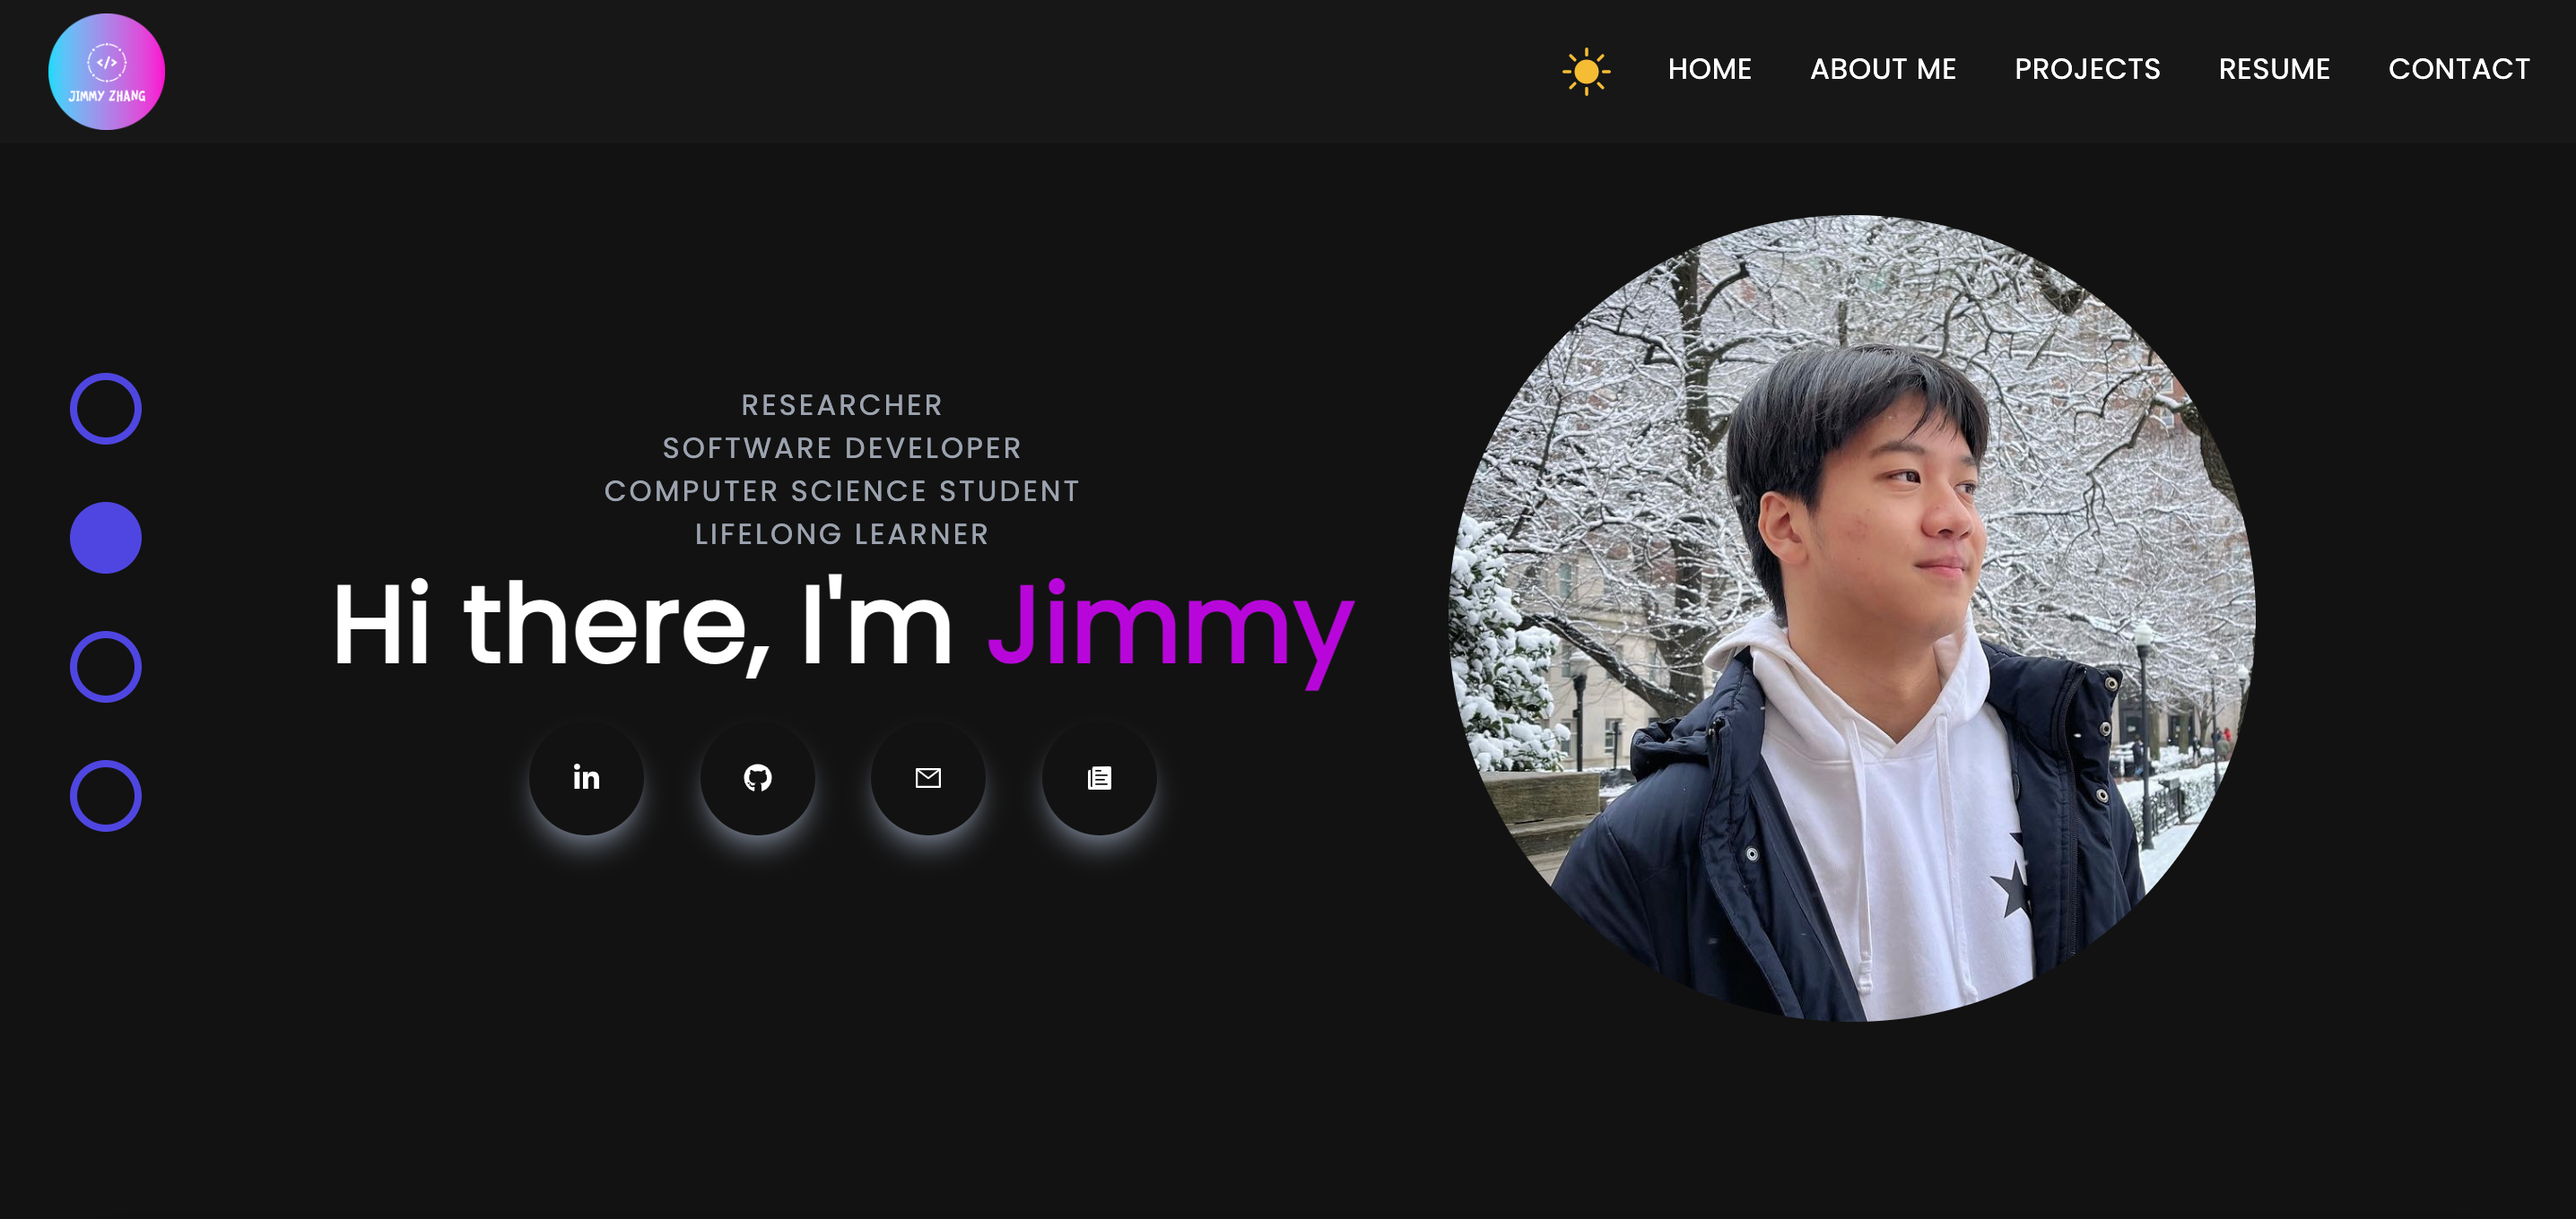
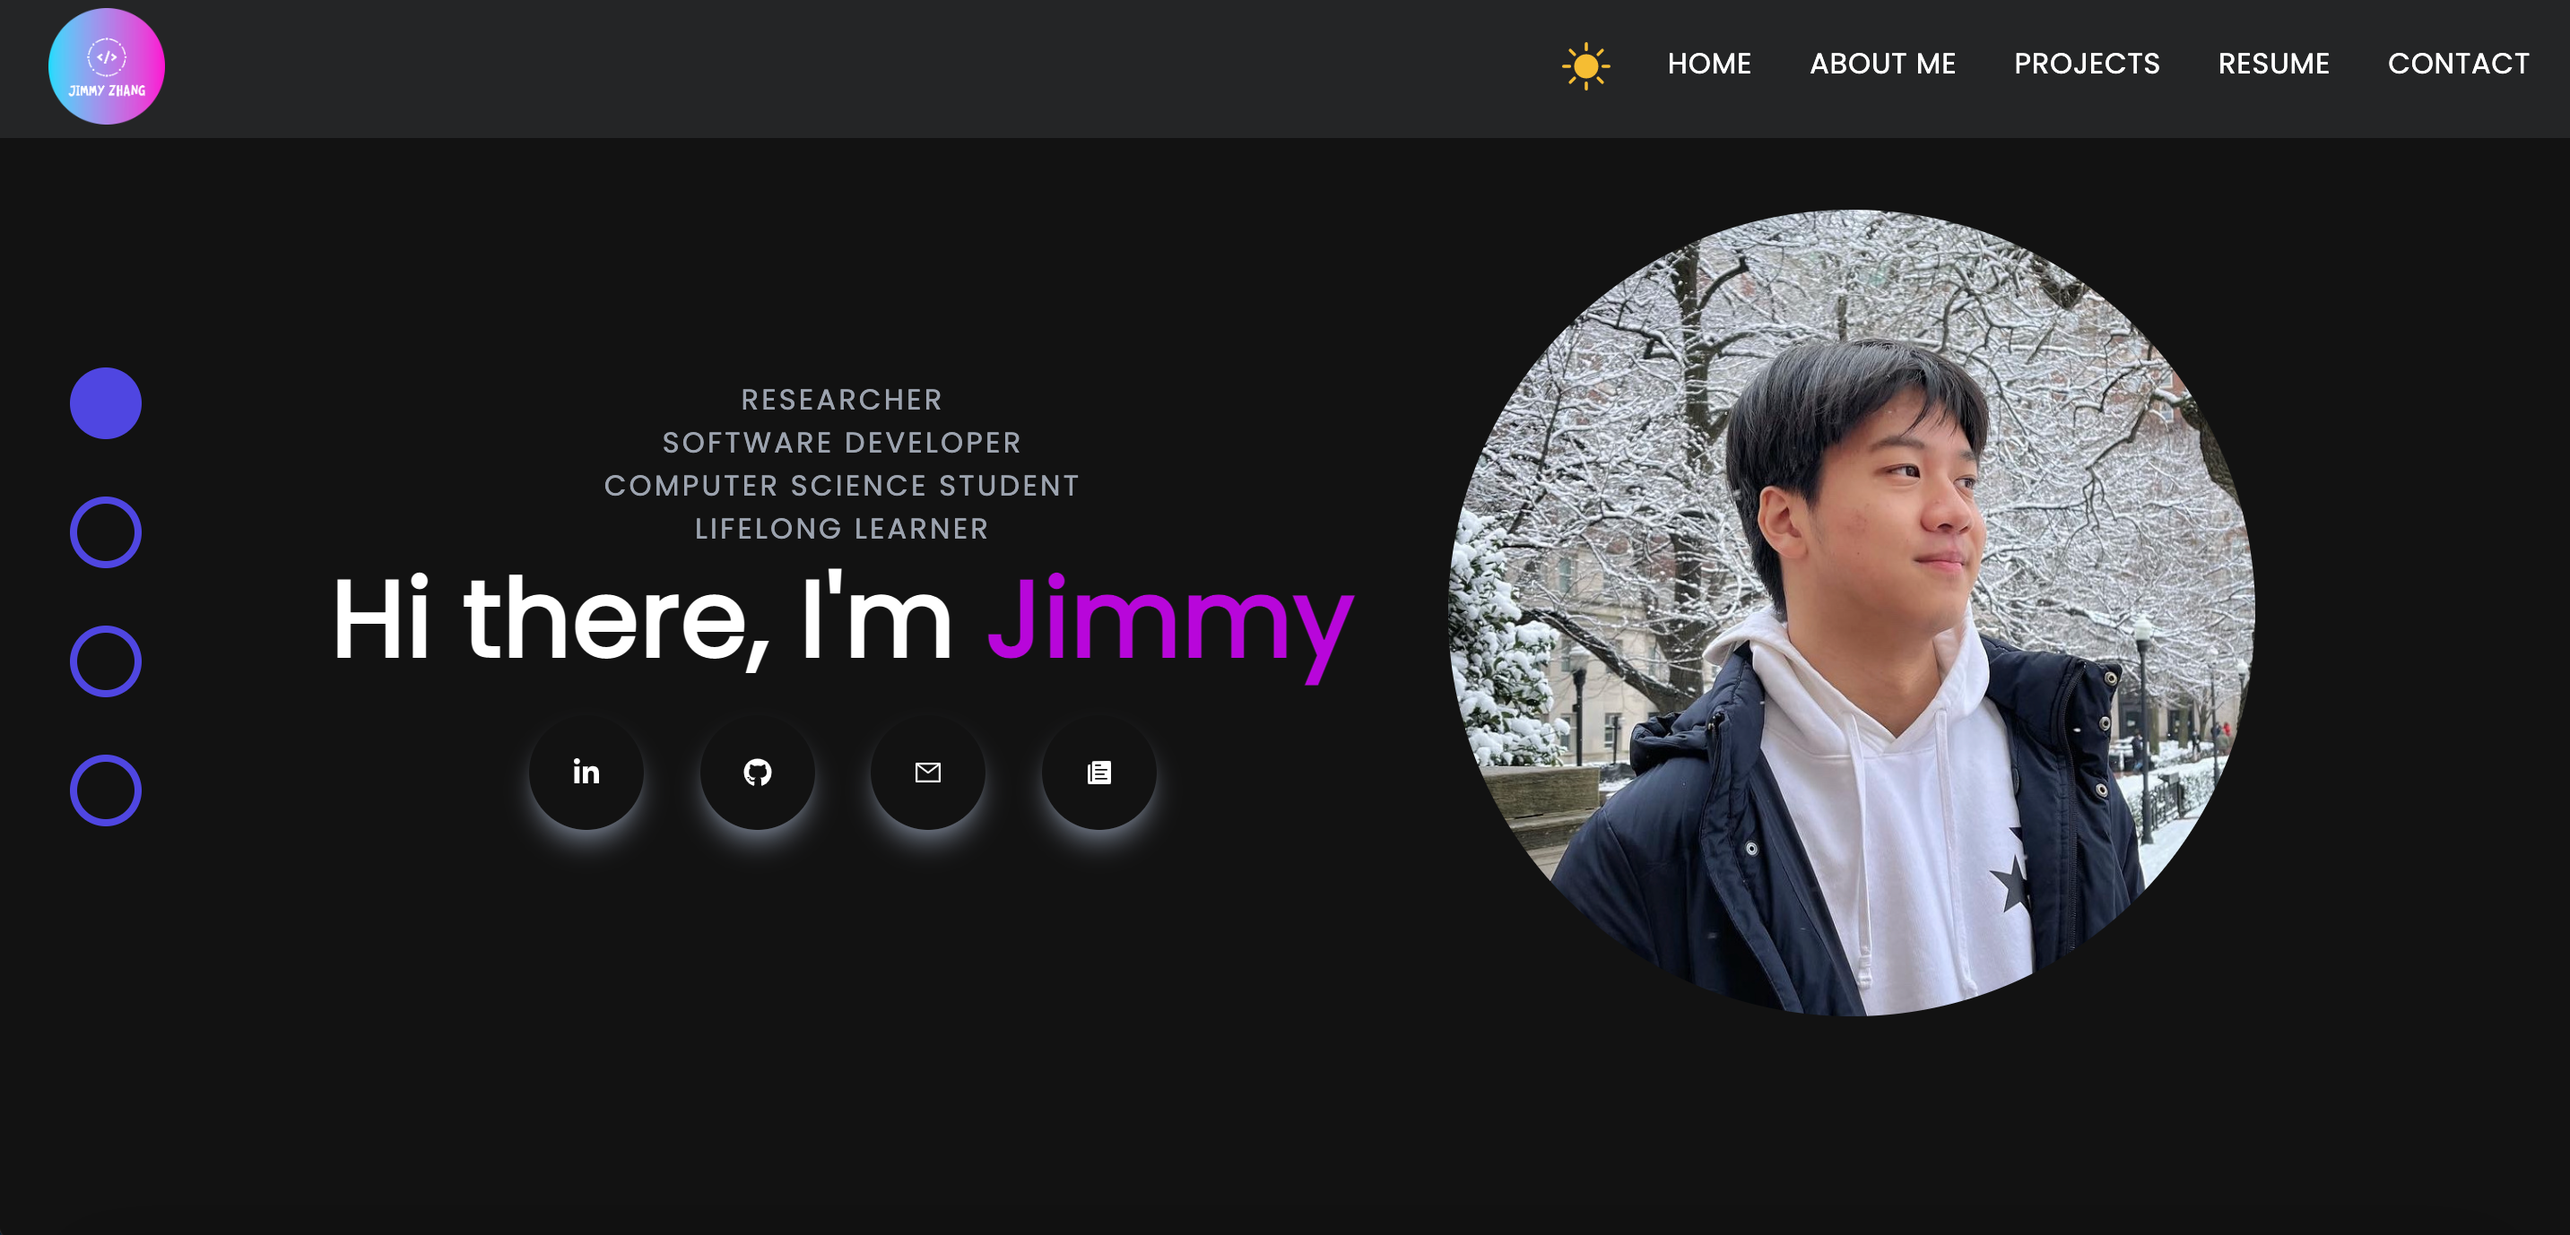
Added project overview for despamifier project and added pictures for new projects

diff --git a/pages/projects/dementia_mortality_prediction.jsx b/pages/projects/dementia_mortality_prediction.jsx
@@ -1,10 +1,10 @@
 import React from "react";
 import Image from "next/image";
 import Link from "next/link";
-import covidImg from "../../public/assets/covid_project.webp";
+import naccImg from "../../public/assets/nacc_project.png";
 import { GiShirtButton } from "react-icons/gi";
 
-const covid_diagnosis_prediction = () => {
+const dementia_mortality_prediction = () => {
 	return (
 		<div className="w-full">
 			<div className="w-screen top-[80px] h-[40vh] relative">
@@ -13,57 +13,34 @@ const covid_diagnosis_prediction = () => {
 					className="absolute z-1"
 					layout="fill"
 					objectFit="cover"
-					src={covidImg}
-					alt="Decision tree"
+					src={naccImg}
+					alt="Clustermap and SHAP beeswarm plots"
 				/>
 
 				<div className="absolute top-[55%] max-w-[1240px] w-full left-[50%] translate-x-[-50%] translate-y-[-50%] z-10 p-2 text-white">
 					<h2 className="py-2">
-						Prediction of Individual COVID-19 Diagnosis using Baseline
-						Demographics and Lab Data
+						Predictive Models and Features of Patient Mortality across Dementia
+						Types
 					</h2>
-					<h3>Research (Machine Learning)</h3>
+					<h3>Research (ML)</h3>
 				</div>
 			</div>
 
 			<div className="max-w-[1240px] mx-auto p-2 grid md:grid-cols-10 gap-8 pt-28">
 				<div className="col-span-10 md:col-span-7">
-					<h2>Abstract</h2>
+					<h2>Project Overview</h2>
 					<p className="mt-4">
-						The global surge in COVID-19 cases underscores the need for fast,
-						scalable, and reliable testing. Current COVID-19 diagnostic tests
-						are limited by turnaround time, limited availability, or occasional
-						false findings. Here, we developed a machine learning-based
-						framework for predicting individual COVID-19 positive diagnosis
-						relying only on readily-available baseline data, including patient
-						demographics, comorbidities, and common lab values. Leveraging a
-						cohort of 31,739 adults within an academic health system, we trained
-						and tested multiple types of machine learning models, achieving an
-						area under the curve of 0.75. Feature importance analyses
-						highlighted serum calcium levels, temperature, age, lymphocyte
-						count, smoking, hemoglobin levels, aspartate aminotransferase
-						levels, and oxygen saturation as key predictors. Additionally, we
-						developed a single decision tree model that provided an operable
-						method for stratifying sub-populations. Overall, this study provides
-						a proof-of-concept that COVID-19 diagnosis prediction models can be
-						developed using only baseline data. The resulting prediction can
-						complement existing tests to enhance screening and pandemic
-						containment workflows.
+						Lorem ipsum dolor sit, amet consectetur adipisicing elit. Nemo quam,
+						deserunt nostrum vitae nesciunt ipsum dolorem blanditiis debitis
+						libero rerum voluptas quidem praesentium voluptatibus tempora,
+						veniam ea! Maiores, cupiditate repudiandae?
 					</p>
-					<a
-						href="https://github.com/Huang-lab/covid19-diagnosis-prediction"
-						target="_blank"
-						rel="noreferrer"
-					>
+					<a href="/" target="_blank" rel="noreferrer">
 						<button className="px-6 py-2 mt-4 mr-8 text-xl hover:scale-105 ease-in duration-300">
 							Code
 						</button>
 					</a>
-					<a
-						href="https://www.nature.com/articles/s41598-021-93126-7"
-						target="_blank"
-						rel="noreferrer"
-					>
+					<a href="/" target="_blank" rel="noreferrer">
 						<button className="px-6 py-2 mt-4 mr-8 text-xl hover:scale-105 ease-in duration-300">
 							Publication
 						</button>
@@ -85,8 +62,15 @@ const covid_diagnosis_prediction = () => {
 
 						<div className="grid grid-cols-2 sm:grid-cols-3 md:grid-cols-1 auto-rows-min">
 							<p className="py-2 flex items-center">
+								<GiShirtButton className="pr-2 w-8" />R
+							</p>
+							<p className="py-2 flex items-center">
 								<GiShirtButton className="pr-2 w-8" />
 								Python
+							</p>
+							<p className="py-2 flex items-center">
+								<GiShirtButton className="pr-2 w-8" />
+								tidyverse
 							</p>
 							<p className="py-2 flex items-center">
 								<GiShirtButton className="pr-2 w-8" />
@@ -115,6 +99,10 @@ const covid_diagnosis_prediction = () => {
 							</p>
 							<p className="py-2 flex items-center">
 								<GiShirtButton className="pr-2 w-8" />
+								shap
+							</p>
+							<p className="py-2 flex items-center">
+								<GiShirtButton className="pr-2 w-8" />
 								Google Colaboratory
 							</p>
 						</div>
@@ -131,4 +119,4 @@ const covid_diagnosis_prediction = () => {
 	);
 };
 
-export default covid_diagnosis_prediction;
+export default dementia_mortality_prediction;

diff --git a/pages/projects/msk_cli.jsx b/pages/projects/msk_cli.jsx
@@ -1,10 +1,9 @@
 import React from "react";
 import Image from "next/image";
 import Link from "next/link";
-import despamImg from "../../public/assets/email_despamifier.png";
 import { GiShirtButton } from "react-icons/gi";
 
-const email_despamifier = () => {
+const msk_cli = () => {
 	return (
 		<div className="w-full">
 			<div className="w-screen top-[80px] h-[40vh] relative">
@@ -27,33 +26,10 @@ const email_despamifier = () => {
 				<div className="col-span-10 md:col-span-7">
 					<h2>Project Overview</h2>
 					<p className="mt-4">
-						For the average high school student, getting one or two college
-						emails a week can be a rather insightful experience (perhaps even
-						something to look forward to). How about one or two a day? Still not
-						too bad, right? But for the overwhelming majority of high school
-						students in the United States, most of whom have unknowingly signed
-						away their email inbox freedom on their last PSAT, SAT, or AP exam
-						by enrolling in College Board&apos;s Student Search Service, things
-						start getting out of hand. What used to be one or two college emails
-						a day or week has become one or two college emails an hour, most of
-						which are advertisements that read no better than typical spam mail.
-					</p>
-					<p className="mt-4">
-						And that&apos;s how the college email de-spamifier was born. As
-						members of the inaugural cohort of AI Camp&apos;s Talent Incubator
-						internship program, we set out to build a Gmail Add-On that
-						automatically filters college emails based on a user&apos;s
-						specified preferences (e.g., tuition, location, acceptance rate,
-						etc.). That way, high school students (including ourselves at the
-						time) would be able to readily extract emails from the colleges we
-						actually cared about, rather than having to filter through hundreds
-						of random college spam emails. Over the course of thirteen weeks, we
-						built a working MVP of the college email de-spamifier using a
-						Beautiful Soup web scraper, a Django backend, a Google Apps Script
-						frontend, and a SQLite database. For more details about the process
-						of building the college email de-spamifier and the AI Camp
-						internship experience as a whole, please check out the Medium
-						article I wrote at the conclusion of the internship.
+						Lorem ipsum dolor sit, amet consectetur adipisicing elit. Nemo quam,
+						deserunt nostrum vitae nesciunt ipsum dolorem blanditiis debitis
+						libero rerum voluptas quidem praesentium voluptatibus tempora,
+						veniam ea! Maiores, cupiditate repudiandae?
 					</p>
 					<a
 						href="https://github.com/Inigo42/college-email-despamifier-backend"
@@ -120,4 +96,4 @@ const email_despamifier = () => {
 	);
 };
 
-export default email_despamifier;
+export default msk_cli;

diff --git a/components/Projects.jsx b/components/Projects.jsx
@@ -4,6 +4,7 @@ import Link from "next/link";
 import ProjectItem from "./ProjectItem";
 import covidImg from "../public/assets/covid_project.webp";
 import cdiffImg from "../public/assets/cdiff_project.svg";
+import naccImg from "../public/assets/nacc_project.png";
 import despamImg from "../public/assets/email_despamifier.png";
 import httpServImg from "../public/assets/http_server_project.png";
 import portfolioImg from "../public/assets/portfolio_project.png";
@@ -34,7 +35,7 @@ const Projects = (props, ref) => {
 					<ProjectItem
 						title="Dementia Patient Mortality Prediction"
 						subtitle="Research (ML)"
-						backgroundImg={cdiffImg}
+						backgroundImg={naccImg}
 						projectUrl="/projects/dementia_mortality_prediction"
 					/>
 

diff --git a/components/Navbar.jsx b/components/Navbar.jsx
@@ -42,10 +42,10 @@ const Navbar = () => {
 			className={
 				shadow
 					? theme === "dark"
-						? "fixed w-full h-20 shadow-xl bg-[#171717] z-[100]"
+						? "fixed w-full h-20 shadow-xl bg-[#242526] z-[100]"
 						: "fixed w-full h-20 shadow-xl bg-white z-[100]"
 					: theme === "dark"
-					? "fixed w-full h-20 bg-[#171717] z-[100]"
+					? "fixed w-full h-20 bg-[#242526] z-[100]"
 					: "fixed w-full h-20 bg-white z-[100]"
 			}
 		>
